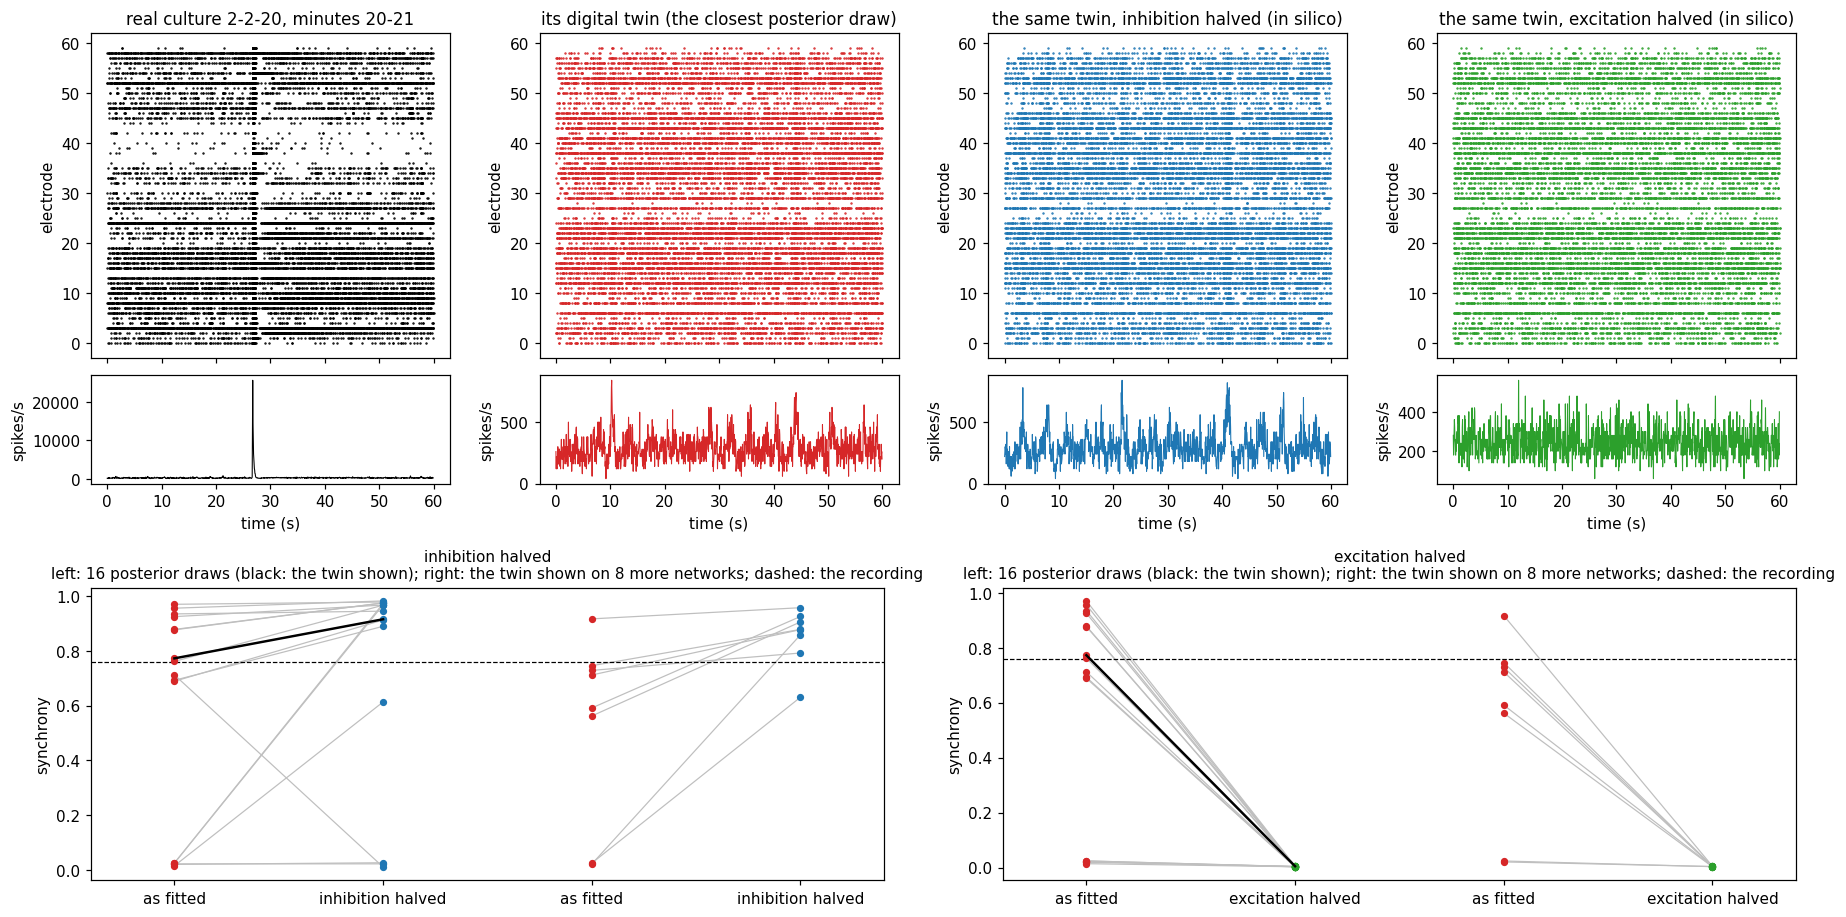
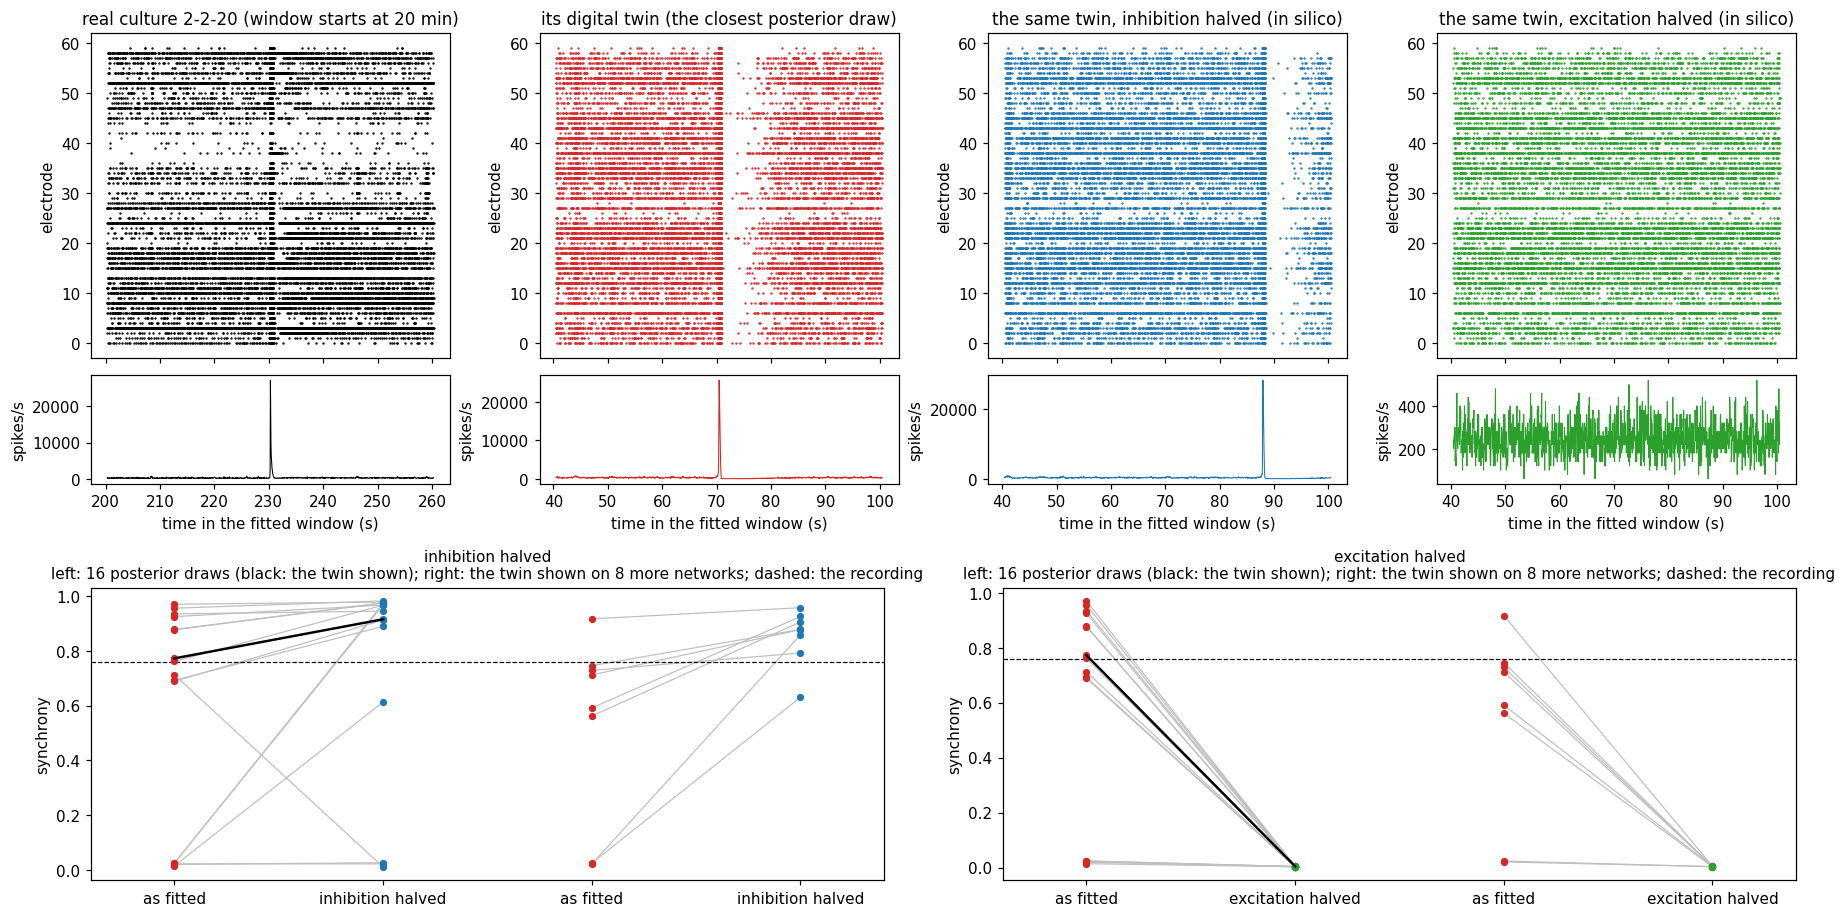
Video: separate prepare/encode steps so the MP4 can be encoded on a Kaggle CPU session (nt-video); final scene list; card image; demo figure centred on each trace's largest burst

diff --git a/tools/make_video.py b/tools/make_video.py
@@ -1,21 +1,24 @@
 """Assemble the demo video from a scene list.
 
-Each scene is an image (or a video clip) plus narration text. The narration is synthesised locally, and each
-scene lasts as long as its narration (plus a small pad), so the video stays in sync without manual timing.
+Each scene is an image (or a video clip) plus narration text. The narration is synthesised locally with the
+Windows speech engine, and each scene lasts as long as its narration (plus a small pad), so the video stays in
+sync without manual timing. Preparing (speech, letterboxing) and encoding are separate steps, so the encoding can
+run elsewhere — for example on a Kaggle CPU session when the laptop is busy.
 
-    python tools/make_video.py video/scenes.json video/build/demo.mp4
+    python tools/make_video.py prepare video/scenes.json video/build/kit     # speech + 1080p frames + timings
+    python tools/make_video.py encode video/build/kit video/build/neurotwin_demo.mp4
+    python tools/make_video.py all video/scenes.json video/build/neurotwin_demo.mp4
 
 scenes.json: {"voice": "...", "rate": 0, "scenes": [{"image": "runs/figs/x.png", "text": "..."}, ...]}
 A scene may use "video" instead of "image" (e.g. a screen recording), and may set "duration" to override.
 """
 import json
 import os
+import shutil
 import subprocess
 import sys
 import wave
 
-from moviepy import (AudioFileClip, ColorClip, CompositeVideoClip, ImageClip, VideoFileClip,
-                     concatenate_videoclips)
 from PIL import Image
 
 SIZE = (1920, 1080)
@@ -34,14 +37,6 @@ def letterbox_image(path, out_path):
     return out_path
 
 
-def fit_canvas(clip, duration):
-    """Letterbox a video clip onto the canvas (images take the cheaper PIL path)."""
-    scale = min(SIZE[0] / clip.w, SIZE[1] / clip.h)
-    inner = clip.resized(scale).with_position("center").with_duration(duration)
-    bg = ColorClip(SIZE, color=BG, duration=duration)
-    return CompositeVideoClip([bg, inner], size=SIZE).with_duration(duration)
-
-
 def synthesise(text, path, voice, rate, pad=PAD_S):
     """Synthesise narration and append `pad` seconds of silence, so audio and scene lengths match exactly."""
     subprocess.run(["powershell", "-NoProfile", "-ExecutionPolicy", "Bypass", "-File", "tools/tts.ps1",
@@ -55,34 +50,63 @@ def synthesise(text, path, voice, rate, pad=PAD_S):
     return (params.nframes + n_pad) / params.framerate
 
 
-def build(spec_path, out_path):
+def prepare(spec_path, kit):
+    """Write a self-contained kit: letterboxed frames, narration WAVs and kit/scenes.json with the durations."""
     spec = json.load(open(spec_path, encoding="utf-8"))
     voice, rate = spec.get("voice", "Microsoft Zira Desktop"), spec.get("rate", 0)
-    tmp = os.path.join(os.path.dirname(out_path) or ".", "audio")
-    os.makedirs(tmp, exist_ok=True)
-    os.makedirs(os.path.dirname(out_path) or ".", exist_ok=True)
-    clips, total = [], 0.0
+    os.makedirs(kit, exist_ok=True)
+    scenes, total = [], 0.0
     for i, sc in enumerate(spec["scenes"]):
-        wav = os.path.join(tmp, f"scene{i:02d}.wav")
-        dur = synthesise(sc["text"], wav, voice, rate) if sc.get("text") else sc.get("duration", 3.0)
-        dur = sc.get("duration", dur)
+        out = {}
         if "video" in sc:
-            src = VideoFileClip(sc["video"])
-            clip = fit_canvas(src.subclipped(0, min(dur, src.duration)), dur)
+            out["video"] = f"scene{i:02d}{os.path.splitext(sc['video'])[1]}"
+            shutil.copy(sc["video"], os.path.join(kit, out["video"]))
         else:
-            framed = letterbox_image(sc["image"], os.path.join(tmp, f"scene{i:02d}.png"))
-            clip = ImageClip(framed, duration=dur)         # already on the 1080p canvas
+            out["image"] = f"scene{i:02d}.png"
+            letterbox_image(sc["image"], os.path.join(kit, out["image"]))
+        dur = sc.get("duration", 3.0)
         if sc.get("text"):
-            clip = clip.with_audio(AudioFileClip(wav))
-        clips.append(clip.with_duration(dur))
+            out["audio"] = f"scene{i:02d}.wav"
+            dur = sc.get("duration", synthesise(sc["text"], os.path.join(kit, out["audio"]), voice, rate))
+        out["duration"] = dur
+        scenes.append(out)
         total += dur
         print(f"scene {i}: {dur:.1f}s  {sc.get('image') or sc.get('video')}")
-    video = concatenate_videoclips(clips, method="compose")
-    video.write_videofile(out_path, fps=24, codec="libx264", audio_codec="aac", logger=None)
-    print(f"wrote {out_path}  ({total:.1f}s total; the competition limit is 300 s)")
+    json.dump({"scenes": scenes}, open(os.path.join(kit, "scenes.json"), "w"), indent=1)
+    print(f"kit in {kit}: {len(scenes)} scenes, {total:.1f} s (the competition limit is 300 s)")
     if total > 300:
         print("WARNING: over the 5-minute limit")
 
 
+def encode(kit, out_path):
+    """Encode a prepared kit into a 1080p, 24-fps H.264/AAC MP4."""
+    from moviepy import AudioFileClip, ColorClip, CompositeVideoClip, ImageClip, VideoFileClip, concatenate_videoclips
+    clips = []
+    for sc in json.load(open(os.path.join(kit, "scenes.json")))["scenes"]:
+        dur = sc["duration"]
+        if "video" in sc:
+            src = VideoFileClip(os.path.join(kit, sc["video"]))
+            scale = min(SIZE[0] / src.w, SIZE[1] / src.h)
+            inner = src.subclipped(0, min(dur, src.duration)).resized(scale).with_position("center")
+            clip = CompositeVideoClip([ColorClip(SIZE, color=BG, duration=dur), inner], size=SIZE)
+        else:
+            clip = ImageClip(os.path.join(kit, sc["image"]), duration=dur)    # already on the 1080p canvas
+        if "audio" in sc:
+            clip = clip.with_audio(AudioFileClip(os.path.join(kit, sc["audio"])))
+        clips.append(clip.with_duration(dur))
+    os.makedirs(os.path.dirname(out_path) or ".", exist_ok=True)
+    concatenate_videoclips(clips, method="compose").write_videofile(out_path, fps=24, codec="libx264",
+                                                                    audio_codec="aac", logger=None)
+    print(f"wrote {out_path} ({sum(c.duration for c in clips):.1f} s)")
+
+
 if __name__ == "__main__":
-    build(sys.argv[1], sys.argv[2] if len(sys.argv) > 2 else "video/build/demo.mp4")
+    cmd, src, dst = sys.argv[1:4]
+    if cmd == "prepare":
+        prepare(src, dst)
+    elif cmd == "encode":
+        encode(src, dst)
+    else:
+        kit = os.path.join(os.path.dirname(dst) or ".", "kit")
+        prepare(src, kit)
+        encode(kit, dst)

diff --git a/kaggle/nt-video/nt_video.py b/kaggle/nt-video/nt_video.py
@@ -1,0 +1,37 @@
+"""Encode the NeuroTwin demo video from a prepared kit (1080p frames, narration, timings) on a CPU session.
+
+The kit is made locally by `python tools/make_video.py prepare video/scenes.json video/build/kit` (the narration
+uses the Windows speech engine) and uploaded as the private dataset nt-video-kit. The encoding is the same as
+`python tools/make_video.py encode`.
+"""
+import glob
+import json
+import os
+import subprocess
+import sys
+
+subprocess.run([sys.executable, "-m", "pip", "install", "-q", "moviepy==2.1.2"], check=True)
+
+from moviepy import AudioFileClip, ImageClip, concatenate_videoclips  # noqa: E402
+
+WORK = "/kaggle/working" if (os.name != "nt" and os.path.isdir("/kaggle/working")) else "."
+KIT = os.path.dirname(glob.glob(os.path.join("/kaggle/input" if WORK != "." else ".", "**", "scenes.json"),
+                                recursive=True)[0])
+
+
+def main():
+    spec = json.load(open(os.path.join(KIT, "scenes.json")))
+    clips = []
+    for sc in spec["scenes"]:
+        clip = ImageClip(os.path.join(KIT, sc["image"]), duration=sc["duration"])
+        if "audio" in sc:
+            clip = clip.with_audio(AudioFileClip(os.path.join(KIT, sc["audio"])))
+        clips.append(clip.with_duration(sc["duration"]))
+    out = os.path.join(WORK, "neurotwin_demo.mp4")
+    concatenate_videoclips(clips, method="compose").write_videofile(out, fps=24, codec="libx264",
+                                                                    audio_codec="aac", logger=None)
+    print(f"wrote {out}: {sum(c.duration for c in clips):.1f} s, {os.path.getsize(out) / 1e6:.1f} MB")
+
+
+if __name__ == "__main__":
+    main()

diff --git a/kaggle/nt-video/template.py b/kaggle/nt-video/template.py
@@ -1,0 +1,37 @@
+"""Encode the NeuroTwin demo video from a prepared kit (1080p frames, narration, timings) on a CPU session.
+
+The kit is made locally by `python tools/make_video.py prepare video/scenes.json video/build/kit` (the narration
+uses the Windows speech engine) and uploaded as the private dataset nt-video-kit. The encoding is the same as
+`python tools/make_video.py encode`.
+"""
+import glob
+import json
+import os
+import subprocess
+import sys
+
+subprocess.run([sys.executable, "-m", "pip", "install", "-q", "moviepy==2.1.2"], check=True)
+
+from moviepy import AudioFileClip, ImageClip, concatenate_videoclips  # noqa: E402
+
+WORK = "/kaggle/working" if (os.name != "nt" and os.path.isdir("/kaggle/working")) else "."
+KIT = os.path.dirname(glob.glob(os.path.join("/kaggle/input" if WORK != "." else ".", "**", "scenes.json"),
+                                recursive=True)[0])
+
+
+def main():
+    spec = json.load(open(os.path.join(KIT, "scenes.json")))
+    clips = []
+    for sc in spec["scenes"]:
+        clip = ImageClip(os.path.join(KIT, sc["image"]), duration=sc["duration"])
+        if "audio" in sc:
+            clip = clip.with_audio(AudioFileClip(os.path.join(KIT, sc["audio"])))
+        clips.append(clip.with_duration(sc["duration"]))
+    out = os.path.join(WORK, "neurotwin_demo.mp4")
+    concatenate_videoclips(clips, method="compose").write_videofile(out, fps=24, codec="libx264",
+                                                                    audio_codec="aac", logger=None)
+    print(f"wrote {out}: {sum(c.duration for c in clips):.1f} s, {os.path.getsize(out) / 1e6:.1f} MB")
+
+
+if __name__ == "__main__":
+    main()

diff --git a/tools/make_figures.py b/tools/make_figures.py
@@ -44,11 +44,13 @@ def ppc_figure(train):
           f"own better in {(p.own_abs_z < p.mismatched_abs_z).mean():.0%} of {len(p)} recordings")
 
 
-def maturation_figure(train):
+def maturation_figure(train, trends=TRENDS, rows=1):
     t = pd.read_csv(os.path.join(train, "trajectories.csv"))
-    fig, ax = plt.subplots(1, len(TRENDS), figsize=(17, 3.6))
+    cols = -(-len(trends) // rows)
+    fig, ax = plt.subplots(rows, cols, figsize=(17 if rows == 1 else 4.2 * cols, 3.6 * rows), squeeze=False)
+    ax = ax.ravel()
     print(f"maturation: {t.groupby(['plating', 'culture']).ngroups} cultures, {len(t)} culture-days")
-    for a, (col, label) in zip(ax, TRENDS):
+    for a, (col, label) in zip(ax, trends):
         for _, g in t.groupby(["plating", "culture"]):
             g = g.sort_values("div")
             a.plot(g["div"], g[col], color="0.8", lw=0.8)

diff --git a/docs/REPORT.md b/docs/REPORT.md
@@ -468,7 +468,7 @@ adaptation increment seen in round 2 does not replicate and is not claimed.
 round-3 twin of culture 2-2 at DIV 20 from minutes 20–25 of its recording (Figure 8). By then the culture fires
 large network bursts that recruit most electrodes (synchrony 0.76); the first ten minutes of the same
 recording are much quieter, a reminder that a five-minute window is a snapshot. The amortised posterior returns
-500 draws in 0.26 s, and the window passes both checks: its distance to the nearest simulations is 0.73 against
+500 draws in under 0.3 s, and the window passes both checks: its distance to the nearest simulations is 0.73 against
 a threshold of 0.77, and 16% of the posterior mass falls outside the parameter box. Re-simulating 16 posterior
 draws, each on its own random network, places 14 of the 16 observed statistics inside the draws' 90% range. The
 two misses are network-burst duration (real bursts last longer) and the irregularity of network-burst timing.
@@ -507,9 +507,10 @@ earlier version of this experiment compared runs on different random networks, w
 intervention with network randomness; pairing the runs removed that confound.
 
 ![Figure 8](figures/demo_in_silico.png)
-*Figure 8. Worked example (culture 2-2, DIV 20, minutes 20–25; round-3 twin). Top: one minute of the recording,
-of the closest posterior draw, and of the same twin — same network, same noise — with inhibition or excitation
-halved. Bottom: each intervention's effect on synchrony across 16 posterior draws (left pair; black: the twin
+*Figure 8. Worked example (culture 2-2, DIV 20, minutes 20–25; round-3 twin). Top: the minute around the
+recording's largest network burst, and the minute around the largest burst of the closest posterior draw, shown
+also for the same twin — same network, same noise — with inhibition or excitation halved (all statistics use
+the whole five minutes). Bottom: each intervention's effect on synchrony across 16 posterior draws (left pair; black: the twin
 shown) and for the twin shown on 8 further random networks (right pair). Dashed lines: the recording.*
 
 
